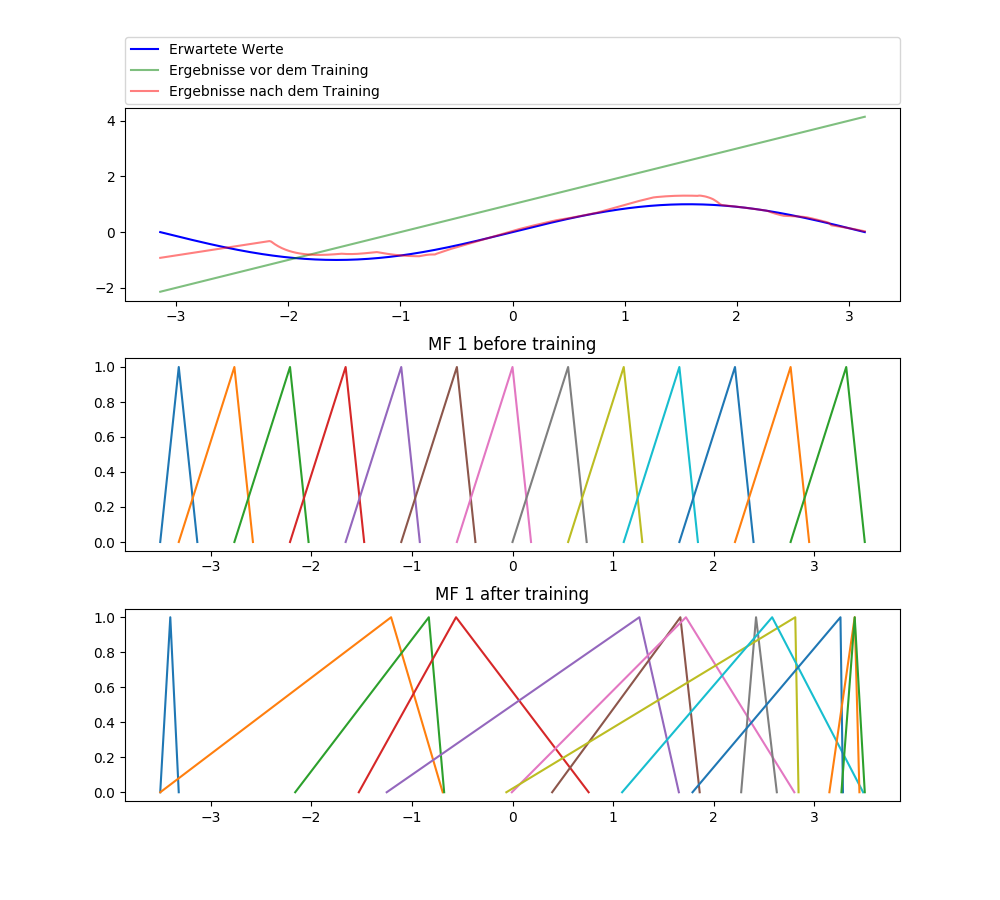
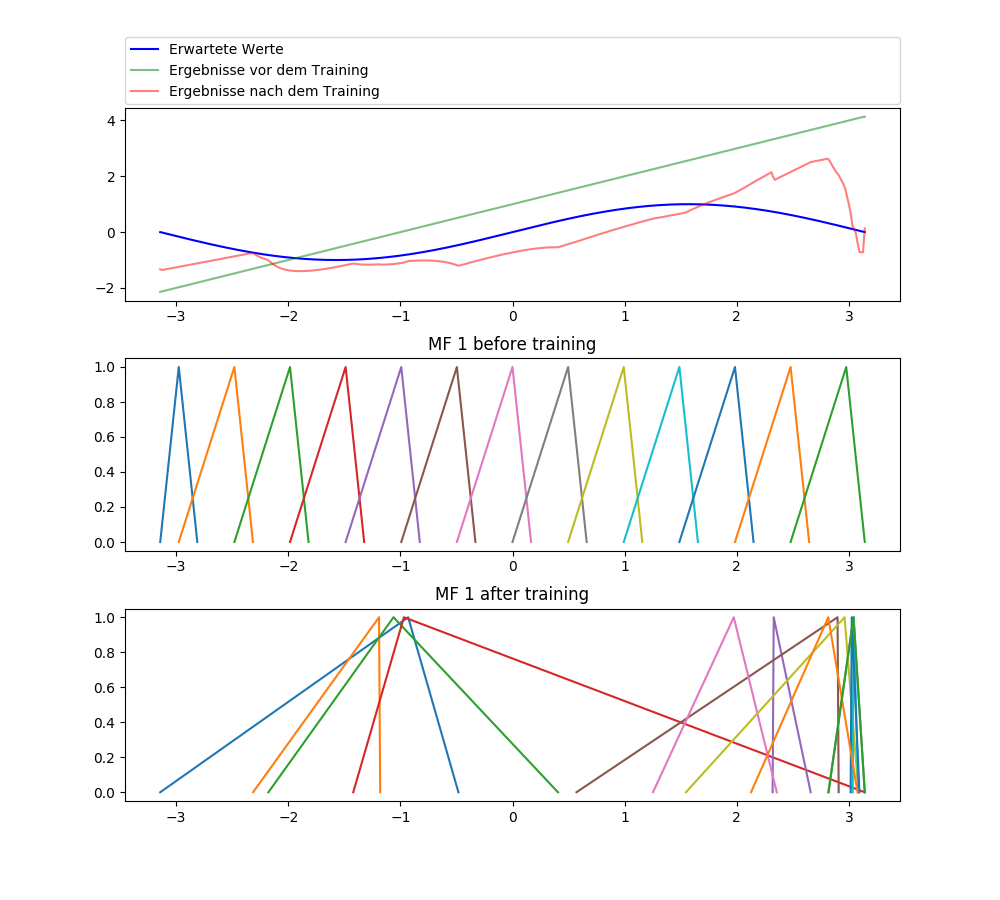
Now it reads the highest and lowest value of the file and sets the value range to those variables.

diff --git a/Tensorflow/ANFIS/anfis.py b/Tensorflow/ANFIS/anfis.py
@@ -7,22 +7,24 @@ import random
 import plotly.plotly as py
 import plotly.graph_objs as go
 from utils.csv_utils import write_in_csv
-
-from utils.file_reader import readFile
+from utils.file_reader import readFile, range_one_input
+import numpy as np
 
 
 class Anfis:
     # num_inputs is not being used. trying the simple way of calculating
-    def __init__(self, num_sets, range, mat=None, num_inputs=None, path=None, fulltrain=False):
+    def __init__(self, num_sets, range=None, mat=None, num_inputs=None, path=None, fulltrain=False):
         self.num_sets = num_sets
-        self.test_possible = False
+        # self.test_possible = False
         self.trainXArr = []
         self.trainYArr = []
         self.testXArr = []
         self.testYArr = []
         self.constraints = []
-        self.prediction = []
-        self.labels = []
+        # self.prediction = []
+        # self.labels = []
+
+        self.range = range
 
         self.fileName = ''
         with open(path) as file:
@@ -32,10 +34,13 @@ class Anfis:
         # mat array is an array wich contains all the test data.
         if (mat != None):
             self.num_inputs = len(mat[0])
-            self.test_possible = True
+            # self.test_possible = True
         elif (num_inputs != None):
             self.num_inputs = num_inputs
         elif path != None:
+            self.range = range_one_input(path, 0)
+            print(self.range.dtype)
+            # print("Range of value for the variable x1: {}".format(r))
             if not fulltrain:
                 xArr, yArr = readFile(path)
                 sizeOfArr = len(xArr)
@@ -58,7 +63,6 @@ class Anfis:
             self.num_inputs = 1
 
         self.num_rules = num_sets ** self.num_inputs
-        self.range = range
 
         self.sess = tf.Session()
 
@@ -66,10 +70,15 @@ class Anfis:
         # self.premisses = [[None] * self.num_sets]*self.num_inputs
         # self.rules_arr = [None] * self.num_rules
 
-        self.a_0 = tf.get_variable(name="a_0", dtype=tf.float32,
-                                   initializer=tf.ones(shape=(self.num_rules, 1)), trainable=1)
-        self.a_y = tf.get_variable(name="a_y", dtype=tf.float32,
-                                   initializer=tf.ones(shape=(self.num_rules, self.num_inputs)), trainable=1)
+        self.a_0 = tf.get_variable(name="a_0", dtype=tf.float64,
+                                   initializer=np.ones(shape=(self.num_rules, 1)).astype(np.float64)
+                                   # tf.ones(shape=(self.num_rules, 1))
+                                   , trainable=1)
+
+        self.a_y = tf.get_variable(name="a_y", dtype=tf.float64,
+                                   initializer=np.ones(shape=(self.num_rules, self.num_inputs)).astype(np.float64)
+                                   # tf.ones(shape=(self.num_rules, self.num_inputs))
+                                   , trainable=1)
 
         self.sess.run(self.a_0.initializer)
         self.sess.run(self.a_y.initializer)
@@ -80,10 +89,10 @@ class Anfis:
         self.saver = tf.train.Saver()
 
         # input variable
-        self.x = tf.placeholder(name="x", shape=[self.num_inputs], dtype=tf.float32)
+        self.x = tf.placeholder(name="x", shape=[self.num_inputs], dtype=tf.float64)
         tf.add_to_collection("xVar", self.x)
         # expected result
-        self.y = tf.placeholder(name="y", shape=(), dtype=tf.float32)
+        self.y = tf.placeholder(name="y", shape=(), dtype=tf.float64)
         tf.add_to_collection("yVar", self.y)
 
         # First Hidden Layer
@@ -193,19 +202,20 @@ class Anfis:
             valArr = []
             for f in range(self.num_sets):
                 if f == 0:
-                    a = tf.get_variable(initializer=tf.constant(self.range[0] * 1.0), name="a" + str(i) + str(f),
-                                        dtype=tf.float32, trainable=0)
-                    valArr.append(self.range[0] * 1.0)
-                else:
-                    a = tf.get_variable(initializer=tf.constant(val - 2 * val_inc),
+                    a = tf.get_variable(initializer=tf.constant(self.range[0]),
                                         name="a" + str(i) + str(f),
-                                        dtype=tf.float32)
-                    valArr.append(val - 2 * val_inc)
+                                        dtype=tf.float64, trainable=0)
+                    valArr.append(self.range[0])
+                else:
+                    a = tf.get_variable(initializer=tf.constant((val - 2 * val_inc)),
+                                        name="a" + str(i) + str(f),
+                                        dtype=tf.float64)
+                    valArr.append((val - 2 * val_inc))
 
                 val = val + val_inc
                 ind += 1
 
-                m = tf.get_variable(name="m" + str(i) + str(f), dtype=tf.float32, trainable=1,
+                m = tf.get_variable(name="m" + str(i) + str(f), dtype=tf.float64, trainable=1,
                                     initializer=tf.constant(val))
 
                 valArr.append(val)
@@ -215,18 +225,18 @@ class Anfis:
                 ind += 1
 
                 if (self.num_sets * i + f) == (num_mfs - 1):
-                    b = tf.get_variable(name="b" + str(i) + str(f), dtype=tf.float32,
-                                        initializer=tf.constant(self.range[1] * 1.0), trainable=0)
+                    b = tf.get_variable(name="b" + str(i) + str(f), dtype=tf.float64,
+                                        initializer=tf.constant(self.range[1]), trainable=0)
                     valArr.append(self.range[1])
                 else:
-                    b = tf.get_variable(name="b" + str(i) + str(f), dtype=tf.float32,
+                    b = tf.get_variable(name="b" + str(i) + str(f), dtype=tf.float64,
                                         trainable=1,
                                         initializer=tf.constant(val))
 
                     valArr.append(val)
 
                 with tf.variable_scope("", reuse=True):
-                    m = tf.get_variable(name="m" + str(i) + str(f), shape=(),
+                    m = tf.get_variable(name="m" + str(i) + str(f), shape=(), dtype=tf.float64,
                                         constraint=lambda x: tf.clip_by_value(m, a, b))
 
                 val = val + val_inc
@@ -244,7 +254,7 @@ class Anfis:
         index = 0
         start = t.process_time()
         for perm in it.product(range(self.num_sets), repeat=self.num_inputs):
-            tmp = tf.ones(shape=(), dtype=tf.float32)
+            tmp = tf.ones(shape=(), dtype=tf.float64)
             for i in range(len(perm)):
                 tmp = tf.multiply(premisses[i][perm[i]], tmp)
             self.mf[index] = tmp
@@ -426,6 +436,7 @@ class Anfis:
             y_val.append(self.testYArr[i])
             y_before_trn.append(self.doCalculation(sess, self.testXArr[i]))
 
+    # NOTE: Maybe not needed
     def create_table(self, type, time, error):
 
         header = dict(values=['<b>Types</b>', '<b>Time</b>', '<b>Error</b>'],

diff --git a/Tensorflow/utils/file_reader.py b/Tensorflow/utils/file_reader.py
@@ -45,7 +45,7 @@ def readFile(path):
                 newline = line.replace("\n", "")
                 items = newline.split("\t")
 
-                arr = np.array(items).astype(np.float)
+                arr = np.array(items).astype(np.float64)
                 xArr[lineInd] = arr[:-1]
                 yArr[lineInd] = arr[-1]
 
@@ -54,15 +54,40 @@ def readFile(path):
 
     return xArr, yArr
 
+
 def arrays(file):
     lines = file.readlines()
     oneline = lines[0].split("\t")
-    size = len(oneline) - 1
-    anz = len(lines)
-    xArr = np.zeros(shape=(anz, size), dtype=np.float)
-    yArr = np.zeros(shape=(anz, 1), dtype=np.float)
+    column = len(oneline) - 1
+    rows = len(lines)
+    xArr = np.zeros(shape=(rows, column), dtype=np.float)
+    yArr = np.zeros(shape=(rows, 1), dtype=np.float)
     return xArr, yArr
 
+
+def range_one_input(path, index):
+    val_range = np.zeros(shape=(2), dtype=np.float)
+    lowest = np.math.inf
+    highest = -np.math.inf
+    lineInd = 0
+    with open(path, 'r') as file:
+        if file.mode == 'r':
+            line = file.readline()
+            while(line != ""):
+                newline = line.replace("\n", "")
+                items = newline.split("\t")
+
+                arr = np.array(items).astype(np.float64)
+                if(lowest > arr[index]):
+                    lowest = arr[index]
+                if(highest < arr[index]):
+                    highest = arr[index]
+                line = file.readline()
+
+        # NOTE: The amount of wiggle room for the value changes the error rate drastically
+        val_range[0] = lowest - 1e-7
+        val_range[1] = highest + 1e-7
+    return val_range
 
 
 def createFile(xArr, yArr, name):

diff --git a/Tensorflow/tf_custom_training/test.py b/Tensorflow/tf_custom_training/test.py
@@ -39,7 +39,7 @@ num_conclusions = 2
 # f = Anfis(range=[-3.5, 3.5], num_sets=num_sets,
 #           path="../utils/sinus.out", fulltrain=True)
 
-f = Anfis(range=[-3.5, 3.5], num_sets=num_sets,
+f = Anfis(num_sets=num_sets,
           path="../utils/sinus.out", fulltrain=True)
 
 # for i in a:
@@ -168,7 +168,7 @@ with f.sess as sess:
     # for i in epochs:
     #     print("Training Time %fs." % f.train(sess, i))
 
-    print("Training Time %fs." % f.train(sess, 50))
+    print("Training Time %fs." % f.train(sess, 10))
     # print("Fehlerrate für", candidate, ":", f.train_2(sess, trn_dataX[i], trn_dataY[0][i]))
 
     # print("Fehlerrate für", candidate, ":", f.train_2(sess, x, y))

diff --git a/Tensorflow/tf_custom_training/iterations.py b/Tensorflow/tf_custom_training/iterations.py
@@ -4,11 +4,9 @@ import tensorflow as tf
 # epochs = [5, 10, 50, 100]
 epochs = [5, 10]
 
+path="../utils/parabola_1001.out"
+
 # for i in range(2, 5):
-for it in epochs:
-    f = Anfis(range=[-0.5, 200.5], num_sets=3,
+f = Anfis(range=[-0.5, 200.5], num_sets=3,
               path="../utils/parabola_1001.out", fulltrain=True)
 
-    with tf.Session() as sess:
-
-        f.train(sess, it)
